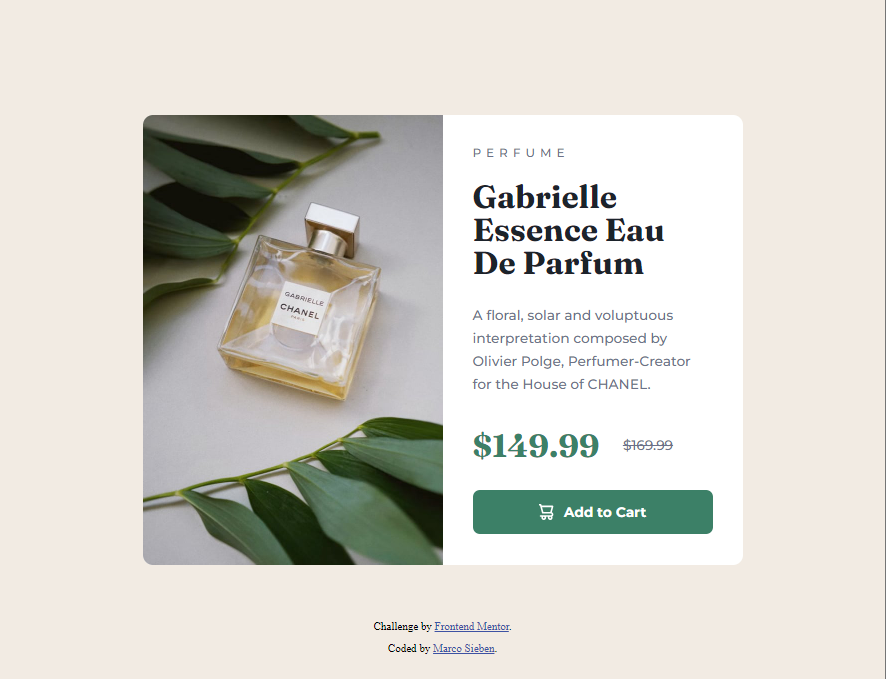
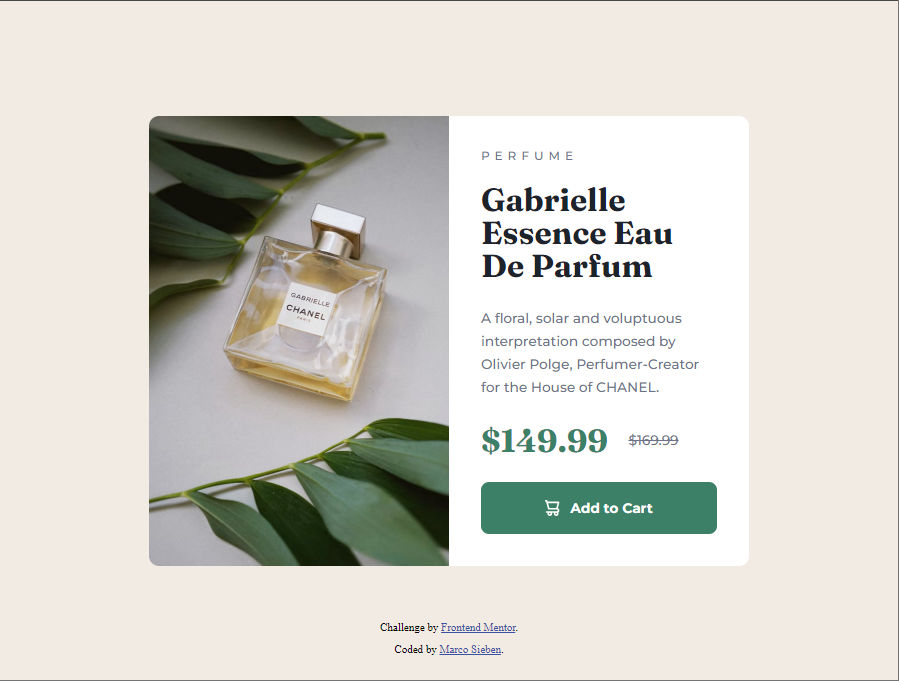
fixed layout

diff --git a/styles/styles.css b/styles/styles.css
@@ -76,7 +76,7 @@ img {
 }
 
 .card__wrapper {
-  padding: 3rem;
+  padding: 3.2rem;
 }
 
 .card__subtitle {
@@ -92,7 +92,7 @@ img {
 }
 
 .card__description {
-  margin-bottom: 3rem;
+  margin-bottom: 2.2rem;
   line-height: 2.3rem;
 }
 
@@ -104,7 +104,7 @@ img {
 
 .card__price--sale {
   color: var(--dark-cyan);
-  margin-right: 2.1rem;
+  margin-right: 1.8rem;
 }
 
 .card__price--real {
@@ -116,10 +116,10 @@ img {
   font-weight: var(--fw-bold);
   background-color: var(--dark-cyan);
   border: none;
-  border-radius: .7rem;
+  border-radius: .8rem;
   width: 100%;
-  padding-block: 1.4rem;
-  margin-top: 2.5rem;
+  padding-block: 1.8rem;
+  margin-top: 2.2rem;
   cursor: pointer;
   
   display: flex;
